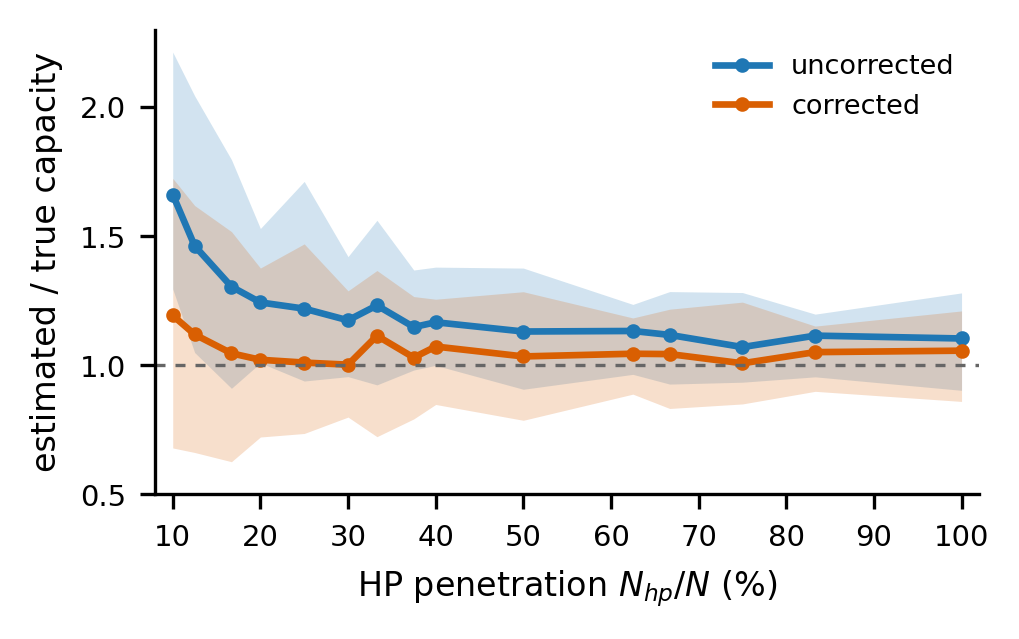
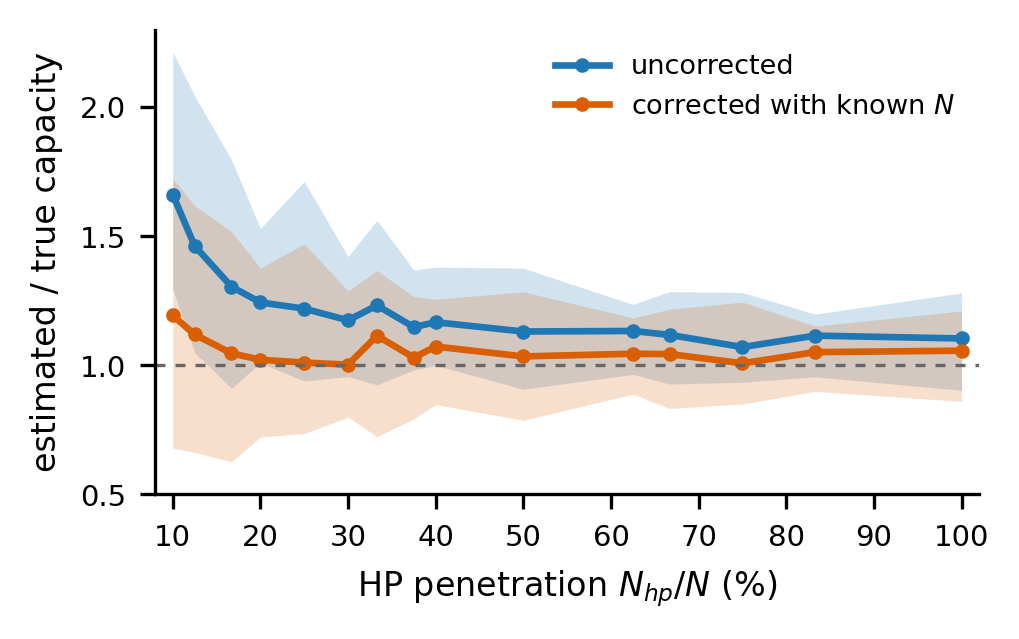
Fig. 5: label the correction as using the known household count N

Changed region(s): [[0.5476, 0.1487, 0.9431, 0.1784], [0.5476, 0.0892, 0.9431, 0.1189]]

diff --git a/paper/content/body.tex b/paper/content/body.tex
@@ -407,7 +407,7 @@ With the pilot's SF sensitivity, \eqref{eq:capacity} recovers the installed capa
 \begin{figure}[t]
 \centering
 \includegraphics[width=\figw]{figures/fig_capacity_error.pdf}
-\caption{Ratio of estimated to true installed capacity for the 1260 Kloten aggregates, against HP penetration $N_{hp}/N$, uncorrected \eqref{eq:capacity} and corrected \eqref{eq:capacity-corr}: median and 10--90\% range at each penetration.}
+\caption{Ratio of estimated to true installed capacity for the 1260 Kloten aggregates, against HP penetration $N_{hp}/N$, uncorrected \eqref{eq:capacity} and corrected with the known household count $N$ \eqref{eq:capacity-corr}: median and 10--90\% range at each penetration.}
 \label{fig:capacity-error}
 \end{figure}
 

diff --git a/scripts/outputs.py b/scripts/outputs.py
@@ -1247,7 +1247,7 @@ def fig_capacity_error(width=20, kind='pen'):
         G = G.assign(pen=(G.N_hp / G.N * 100).round(1))
         hf.use_style()
         fig, ax = plt.subplots(figsize=(hf.COL1, 2.2))
-        for col, c, lab in (('cap_est', hf.C_CH, 'uncorrected'), ('cap_corr', hf.C_DE, 'corrected')):
+        for col, c, lab in (('cap_est', hf.C_CH, 'uncorrected'), ('cap_corr', hf.C_DE, 'corrected with known $N$')):
             S = (G[col] / G.cap).groupby(G.pen).agg(p10=lambda x: x.quantile(.1), med='median', p90=lambda x: x.quantile(.9))
             print(lab); print(S.round(2).T.to_string())
             ax.fill_between(S.index, S.p10, S.p90, color=c, alpha=.2, lw=0)

diff --git a/REVISION_LOG.md b/REVISION_LOG.md
@@ -527,3 +527,4 @@ Raised on 9 Nov and parked while the error metric and ranges change. Not done ye
 - **III-A (Alex's edit in TeXstudio):** deleted "The two regimes are estimated separately. A reversible HP counts in both P̂_h^max and P̂_c^max, so the total installed capacity of a population of reversible HPs lies between the larger of the two and their sum."
 - **IV-E:** added "The estimate is closest to the actual, within 2%, between 7 and 11 °C, around the mean temperature of the heating days, 7.4 °C." (estimate/actual 1.02 at 7–9 °C and 0.99 at 9–11 °C; mean of each aggregate's heating-day temperatures pooled, 7.4 °C). The 11–13 °C bin, second in heating days, is 11% low, so the wording avoids "the most frequent bins".
 - **IV-E:** deleted "For the aggregates of 50 households with 25 HPs, only the energy factor follows this profile, and the days above 13 °C hold only 6% of the flexible energy." It was left over from the 60-aggregate Fig. 7; the first clause repeated the opening and coldest-days paragraphs, and the share is now 5.2% over all 1260 aggregates.
+- **Fig. 5 labels:** legend "corrected" → "corrected with known N"; caption "corrected" → "corrected with the known household count N" (Alex's wording).
